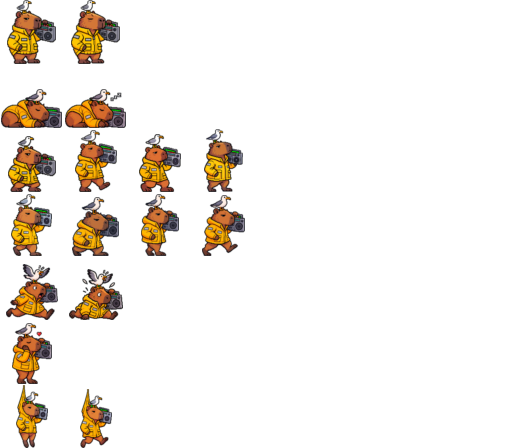
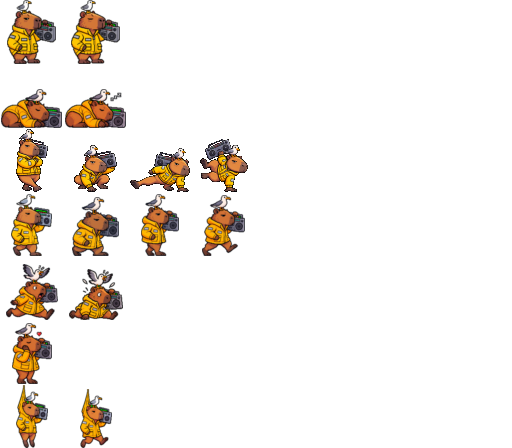
companion: Cap'n Capy break-dances, from new pixel-art frames (D159)
The owner made two dance sets with a pixel-art tool from the sprite-bot
instructions, and picked the break dance: toprock, drop, sweep, freeze,
with the boombox on his shoulder as in his idle frame. The disco set is
kept beside it for later.

Both came back as large crisp art facing left, a hair short of opaque.
They go in as ready 64 px cells: mirrored to face right, alpha made 0 or
255, evened by the seagull, one factor so the standing pose is 63 rows,
feet on the bottom row. sheet.ps1 gains -Cells, which places a ready cell
pixel for pixel and leaves every other state as it was: every other row
of the sheet is byte-for-byte unchanged. The bot's originals are kept in
design/sprites/captain/pixel/, and companion-art.md says how a set goes in.

Changed region(s): [[0.0, 0.2812, 0.5, 0.4375]]

diff --git a/docs/decisions.md b/docs/decisions.md
@@ -165,6 +165,7 @@ Authoritative. When anything contradicts this file, the other thing is wrong or 
 | D156 | Cap'n Capy can be petted and carried: his own pixels catch the pointer, and he still never takes the focus | #192, PR 3. **Hit-tested by his alpha:** a layered window drawn with per-pixel alpha is hit-tested by that alpha, so without `WS_EX_TRANSPARENT` exactly his outline catches the mouse, and the empty corners of his cell pass it to the window behind (checked with `WindowFromPoint`: his belly is him, a corner is not). This supersedes D154's all-click-through window. **Still never activated:** `WS_EX_NOACTIVATE`, and `MA_NOACTIVATE` for `WM_MOUSEACTIVATE`. A press captures the mouse until release, so a drag keeps up when the pointer runs ahead of him. A hand cursor shows over him. **A click is a pet:** a press and release within 4 px, Windows' own drag threshold. He leans in for 1.5 s whatever the pack's frame count, and not while he is falling. **A drag carries him** by the scruff, 4 px (1x) below the top of his sprite, where the carry frames stretch his jacket, kicking. Let go, or when another window takes the mouse, he falls straight down to the ledge below where he was dropped, or to the floor over nothing. A drag catches him mid-fall. **A jolt or a pet starts the quiet over.** Under D155 he fell back asleep the moment he landed, because the 30 s of quiet had already passed. Roads not taken: **throwing him** (a release that keeps the drag's speed), because a thrown companion lands somewhere nobody chose; **a right-click menu**, because he has no settings of his own, and the switch that starts him lives in the player (PR 4) **(req)** |
 | D157 | Cap'n Capy's switch is a box in the library; he leaves with the player, there is only ever one of him, and he ships in the zip | #192, PR 4, the owner's calls (2026-09-27: both ways of starting him; the same zip). **The switch** is a "Cap'n Capy" checkbox beside glow in the library header, which is where app settings go until there is a settings window (D100). It is off until a person turns it on, and remembered (`companion.on`). On starts his program now and at every launch after; off ends the one the player started. The box follows what happened: when his program is missing it stays off, and the library says why. **He leaves with the player** without a line in the player's exit path (D63's single exit is untouched). The player starts him with `--with-player`, and he quits when the player's pipe closes, whether the player was closed, quit from the tray or crashed; if the player never lets him in within 30 s, he goes too. Started by hand, with no flag, he waits for the player and outlasts a restart of it, which is the tinkerer's way. **One Cap'n:** a session-wide named mutex (`Local\hurricane-party-companion`), so a second one, from the switch or a double-click, leaves at once. **No console:** the release build is a Windows-subsystem exe, and the player starts a debug build with `CREATE_NO_WINDOW` through a new platform call, `spawn_quiet`, beside `kill_tree`. **The zip** carries `hp-companion.exe` (about 650 KB) and `companions/captain/` beside `hurricane-party.exe`, built by `release-exe.yml`. Roads not taken: **ending him from the player's exit handler**, when the pipe closing already says the same thing and a crash says it too; **a tray icon of his own**, when the player's box and the player itself are the ways to send him off **(req)** |
 | D158 | Between beats Cap'n Capy holds his last dance pose; only 6 s without a beat stands him up | The owner, 2026-09-28: *"It looks a wee bit wonky."* Measured on the sheet: the four dance frames came out of the image model 12–21% smaller (in opaque pixels) than the idle frame and uneven among themselves, and D155 dropped him back to idle after 1.5 s without a beat. The beat flag is an onset heuristic, so a sparse song kept flicking him between his dance frames and his bigger idle frame. **Now** the last beat's pose is held until the next beat, and he stands only after 6 s without one: a break, or a track with no bass to find. Supersedes D155's 1.5 s. **The art** is the other half, and it is being redrawn: the owner is making new frames with a pixel-art tool, using the generic sprite-bot instructions now in `companion-art.md`, which lock the character's size to the reference within a pixel. Roads not taken: **resizing each dance frame in the packer to match idle**, which is moot once the frames are drawn to one size, and could only shrink the whole captain because his idle already fills the 64 px cell **(req)** |
+| D159 | Cap'n Capy break-dances, from new pixel-art frames placed as ready cells | The owner, 2026-09-28, choosing between two sets the sprite-bot instructions produced: a disco routine and a break routine. **Break** (toprock, drop, sweep, freeze) is his dance: the silhouettes read clearest at 64 px, and the boombox stays on his shoulder as in his idle frame. The disco set (fist pump, tuck, point, tuck, boombox in hand) is kept as `cells/disco-*.png` for later. **Ready cells:** `sheet.ps1 -Cells <folder>` places `<state>-<n>.png` at exactly the cell size pixel for pixel. A state with any cells there takes all its frames from there, and none from `-In`, so its poses are not rescaled and do not sway the one factor the other states share. Every other row of the sheet came out byte-for-byte the same. **How a bot set becomes cells** is in `companion-art.md`: split, mirror to face right, alpha to 0 or 255, even out drift by the seagull, one factor so the standing pose is 63 rows, box-filtered to 64 px with feet on the bottom row. The originals are kept in `design/sprites/captain/pixel/`. Roads not taken: **both dances as one 8-beat routine**, because the boombox would jump from his hand to his shoulder where the two halves meet; **a dance picked per song**, which the fixed seven-state vocabulary has no slot for **(req)** |
 
 ---
 

diff --git a/docs/companion-art.md b/docs/companion-art.md
@@ -75,7 +75,17 @@ A friend with a pencil follows the same list with the same poses and skips the p
 
 The second way, tried after the first dance frames came back uneven (D158): a tool that draws true pixel art at 64 x 64 rather than a painting to be shrunk. It is set up once with the instructions below and then given one short action prompt per request, with the reference image attached. Nothing in the instructions is about the captain: the bot measures whatever reference it is given and holds every frame to it within a pixel, so the kittens use the same text. Rule 4, the size lock, is the one the first dance frames broke.
 
-The captain's reference is his idle frame cut from the sheet with every pixel made fully opaque or fully transparent (64 x 64, and an exact 8x copy at 512 x 512 for tools that want a bigger picture). Frames that come back at native size skip `keyout.ps1`; they still go through `sheet.ps1`, with `-Filter nearest`.
+The captain's reference is his idle frame cut from the sheet with every pixel made fully opaque or fully transparent (64 x 64, and an exact 8x copy at 512 x 512 for tools that want a bigger picture). **What came back, and how it went in (2026-09-28, D159).** The owner ran the instructions through Cursor twice. Both sets came back as crisp pixel art, but large (about 4 image pixels per art pixel), facing left, and with the figure a hair short of opaque. Neither was 64 px. The size lock mostly held: measured by the seagull, the one rigid part, the disco set drifted up to 5% between frames and the break set was drawn at one scale. So a set goes in as ready cells:
+
+1. Split a strip into its figures at the gaps between them.
+2. Mirror each figure to face right, as every frame of his does; the app mirrors him itself when he walks left.
+3. Make every pixel fully opaque or fully transparent.
+4. Even out any drift using the seagull's white area; a pose change is not drift, so the bounce stays.
+5. Scale the whole set by one factor, so its standing pose is as tall as his standing frames (63 rows), and check the widest pose still fits.
+6. Box-filter down to 64 px, feet on the bottom row, each pose centred on its own width.
+7. Save the results as `design/sprites/captain/cells/<state>-<n>.png`, and pack with `sheet.ps1 -Cells design\sprites\captain\cells`, which places a ready cell pixel for pixel and leaves every other state as it was.
+
+The break dance (toprock, drop, sweep, freeze) is his dance. The disco set (fist pump, tuck, point, tuck) is kept beside it as `cells/disco-*.png`, which the packer ignores, and the bot's originals for both are in `design/sprites/captain/pixel/`.
 
 ### The instructions, set once
 
